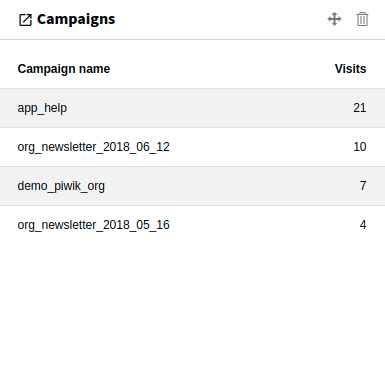
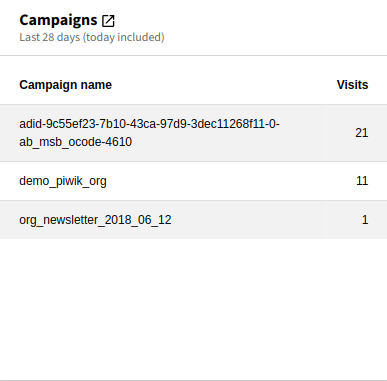
docs: adjust images with date range in table widgets
related: #50

diff --git a/Documentation/Changelog/Index.rst b/Documentation/Changelog/Index.rst
@@ -11,6 +11,12 @@ and this project adheres to `Semantic Versioning <https://semver.org/spec/v2.0.0
 `Unreleased <https://github.com/brotkrueml/typo3-matomo-widgets/compare/v3.0.0...HEAD>`_
 --------------------------------------------------------------------------------------------
 
+Added
+^^^^^
+
+
+* Display of date range in table widgets (#50)
+
 `3.0.0 <https://github.com/brotkrueml/typo3-matomo-widgets/compare/v2.4.0...v3.0.0>`_ - 2024-02-19
 ------------------------------------------------------------------------------------------------------
 
